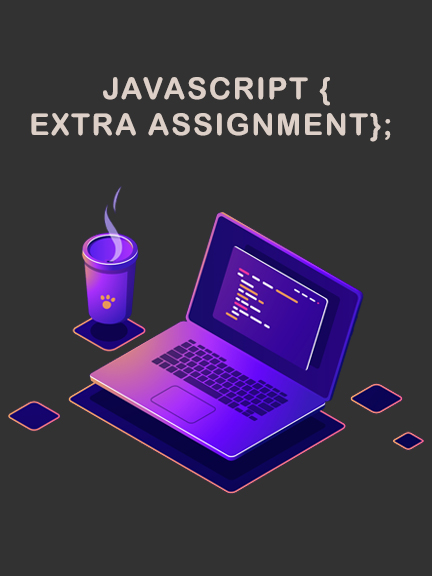
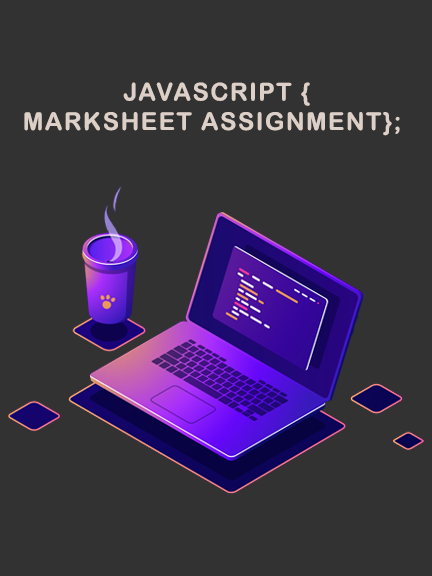
MarkSheet Completed

Changed region(s): [[0.0301, 0.125, 0.9329, 0.25]]

diff --git a/Assignment/assigment15.html b/Assignment/assigment15.html
@@ -14,12 +14,11 @@
 </head>
 
 <body>
-    <!-- <img class="image_logo" src="./../Img/logo_2.png" alt="JSA"> -->
     <!--  Navbar -->
     <nav class="navbar navbar-expand-lg navbar-dark bg-dark">
         <div class="container-fluid">
             <a class="navbar-brand" href="./../index.html">
-                <h1>JSA</h1>
+                <img class="image_logo" src="./../Img/logo_2.png" alt="JSA">
             </a>
             <button class="navbar-toggler" type="button" data-bs-toggle="collapse"
                 data-bs-target="#navbarNavDarkDropdown" aria-controls="navbarNavDarkDropdown" aria-expanded="false"
@@ -62,11 +61,11 @@
             <fieldset>
 
                 <legend>
-                    <h3 class="h3">Marks Sheet</h3>
+                    <h3 class="h3"><u>Marks Sheet</u></h3>
                 </legend>
                 <label for="FirstName">First Name:<input id="FirstName" type="text" class="input"
                         placeholder="First Name"></label><br>
-                <label for="lastName">Last Name:<input id="LastName" type="text" class="input"
+                <label for="LastName">Last Name:<input id="LastName" type="text" class="input"
                         placeholder="Last Name"></label><br>
                 <label for="RollNumber">Roll Number:<input id="RollNumber" type="number" class="input"
                         placeholder="Roll Number"></label><br>

diff --git a/Assignment/app.js b/Assignment/app.js
@@ -23,11 +23,34 @@ function Marksheet() {
     document.getElementById("ismamyatscore").innerHTML = islamyat;
     document.getElementById("totalmarks").innerHTML = totleNumber + " / 600";
     document.getElementById("persontage").innerHTML = persontage + "% / 100%";
-    document.getElementById("grade").innerHTML = "A+";
 
     document.getElementsByTagName("form")[0].style.display = "none";
     document.getElementById("result").style.display = "block";
     document.getElementById("result").style.padding = "20px";
+    document.getElementById("result").style.fontSize = "20px";
+    document.getElementById("Card").style.fontSize = "30px";
+    document.getElementById("Card").style.textDecoration = "underline";
 
 
+    if (persontage >= 95) {
+        document.getElementById("grade").innerHTML = "A+";
+    }
+    else if(persontage >= 90){
+        document.getElementById("grade").innerHTML = "A";
+    }
+    else if(persontage >= 80){
+        document.getElementById("grade").innerHTML = "B";
+    }
+    else if(persontage >= 70){
+        document.getElementById("grade").innerHTML = "C";
+    }
+    else if(persontage >= 60){
+        document.getElementById("grade").innerHTML = "D";
+    }
+    else if(persontage >= 50){
+        document.getElementById("grade").innerHTML = "E";
+    }
+    else if(persontage >= 0){
+        document.getElementById("grade").innerHTML = "F";
+    }
 };

diff --git a/Assignment/style_1.css b/Assignment/style_1.css
@@ -12,7 +12,7 @@ body {
     background-color: #DDD0C8;
 }
 
-.main{
+.main {
     padding: 10px;
 }
 
@@ -31,7 +31,9 @@ body {
     background-color: #323232;
     color: #DDD0C8;
     font-weight: bold;
-};
+}
+
+;
 
 .bg-dark {
     color: #DDD0C8;
@@ -43,7 +45,7 @@ body {
 
 
 
-.input{
+.input {
     display: block;
     margin: 2%;
     padding: 2%;
@@ -51,21 +53,56 @@ body {
     color: #DDD0C8;
     padding-right: 200px;
     border-radius: 20px;
-};
+}
 
-label{
+;
+
+label {
     display: block;
-};
+}
 
-.h3{
+;
+
+.h3 {
     padding-left: 200px;
 }
 
-.submit{
+
+form{
+    border: #323232 2px solid;
+    
+}
+
+.submit {
     text-align: center;
-    padding: 10px 30px;
-    margin: 10px 150px;
+    padding: 10px 100px;
+    margin: 10px 10px;
     background: #323232;
     color: #DDD0C8;
     border-radius: 20px;
+}
+
+@media (min-width: 320px) and (max-width: 425px) {
+    .input {
+        display: block;
+        margin: 2%;
+        padding: 2%;
+        background: #323232;
+        color: #DDD0C8;
+        padding-right: 50px;
+        border-radius: 20px;
+    }
+}
+
+
+@media (min-width: 425px) and (max-width: 600px) {
+    .input {
+        display: block;
+        margin: 2%;
+        padding: 2%;
+        background: #323232;
+        color: #DDD0C8;
+        padding-right: 100px;
+        border-radius: 20px;
+    }
 }

diff --git a/index.html b/index.html
@@ -1,4 +1,4 @@
-<!DOCTYPE html>
+  <!DOCTYPE html>
 <html lang="en">
 
 <head>
@@ -175,7 +175,7 @@
         <a class="text_style" href="./Assignment/assigment15.html"><div class="card card_img m-1" style="width: 18rem;">
           <img src="./Cards_Img/Card_15.jpg" class="card-img-top" alt="...">
           <div class="card-body">
-            <p class="card-text"><h3><u>Extra Assigment</u></h3> Assigment has been completed</p>
+            <p class="card-text"><h3><u>Mark Sheet</u></h3> Assigment has been completed</p>
           </div>
         </div></a>
       </div>
